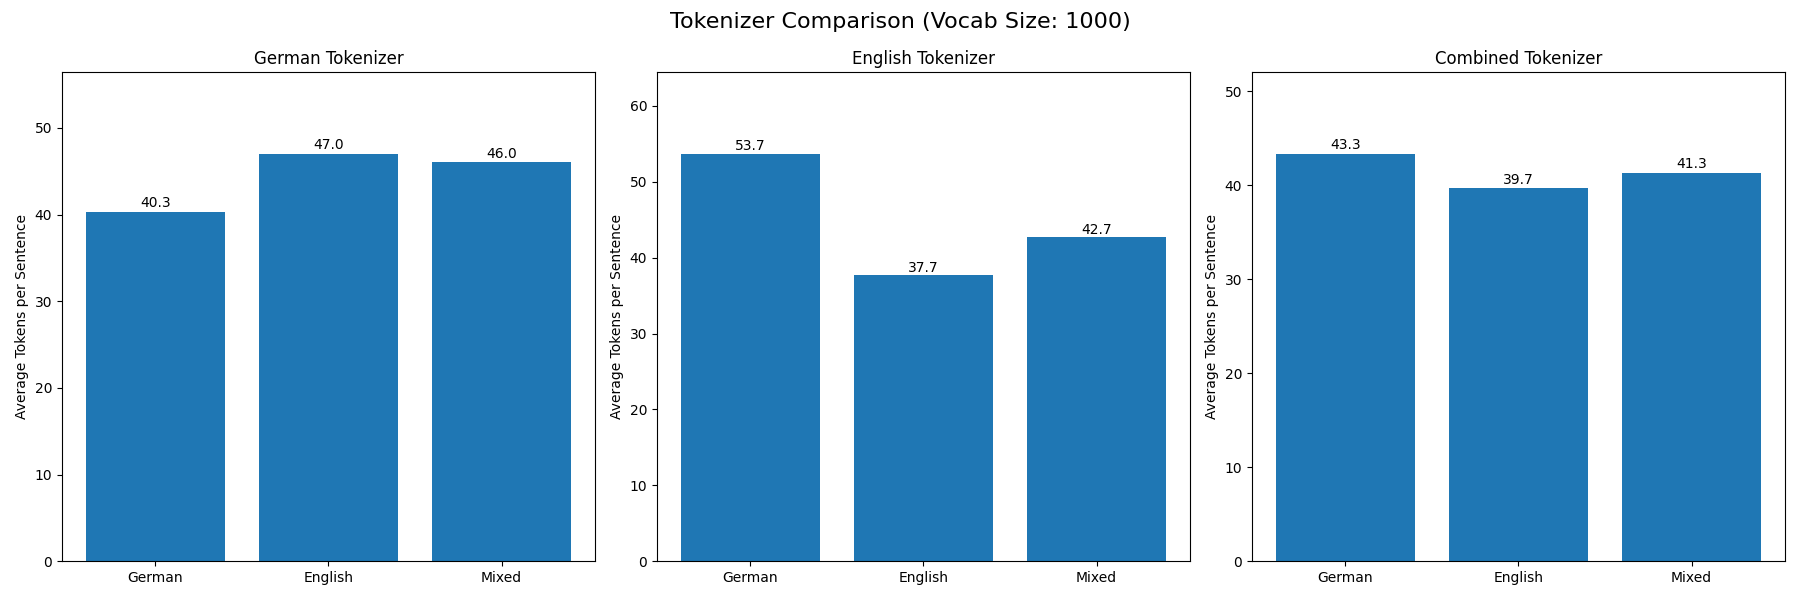
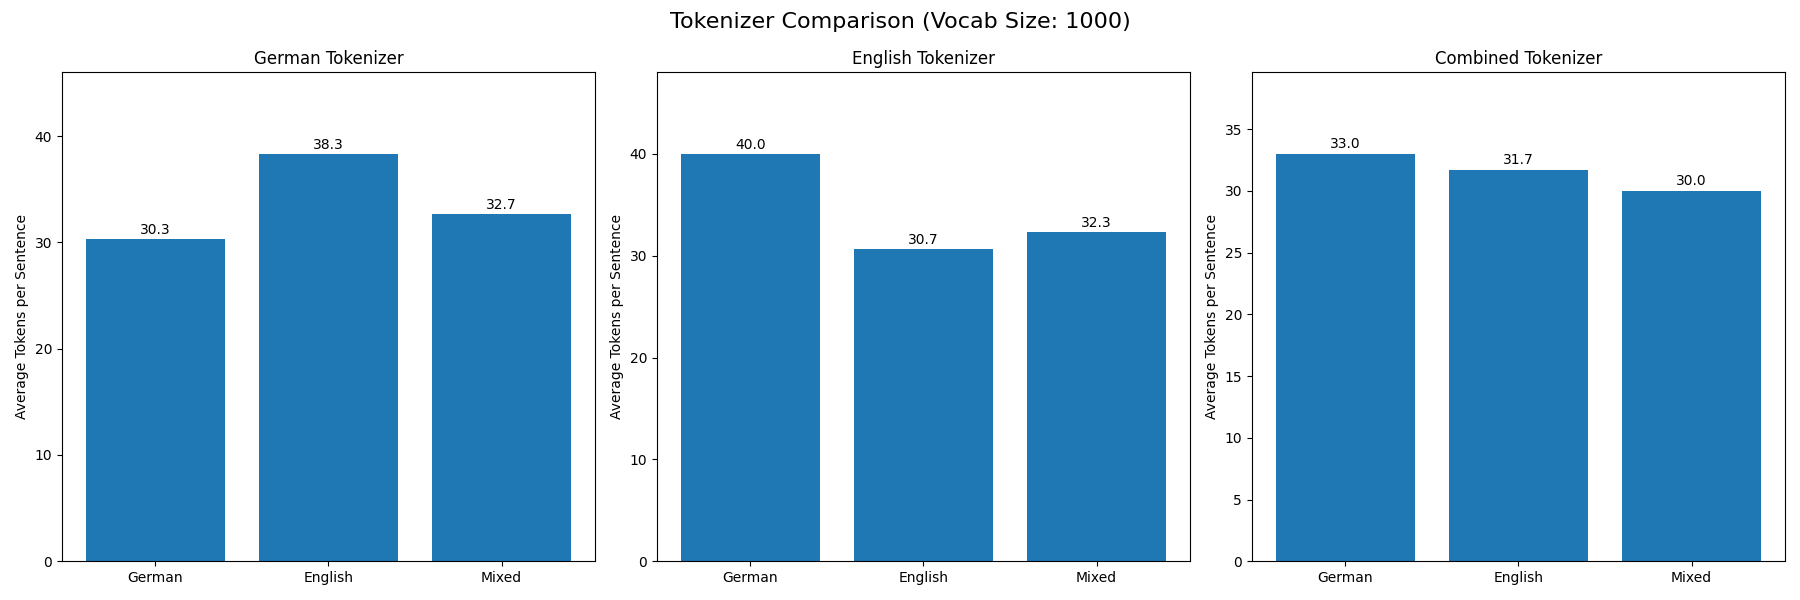
fix tokenisation

diff --git a/bpe_tokenizer/analyse_tokenizer.py b/bpe_tokenizer/analyse_tokenizer.py
@@ -1,5 +1,5 @@
 from bpe_tokenizer import BPETokenizer
-from config import TEST_VOCAB_SIZE, TOKENIZERS_DIR, CHARTS_DIR, test_sets
+from config import VOCAB_SIZE, TOKENIZERS_DIR, CHARTS_DIR, test_sets
 import matplotlib.pyplot as plt
 import os
 
@@ -55,7 +55,7 @@ def create_tokenizer_charts(german_metrics, english_metrics, combined_metrics, t
     
     # Set up figure with 3 subplots
     fig, axs = plt.subplots(1, 3, figsize=(18, 6))
-    fig.suptitle(f'Tokenizer Comparison (Vocab Size: {TEST_VOCAB_SIZE})', fontsize=16)
+    fig.suptitle(f'Tokenizer Comparison (Vocab Size: {VOCAB_SIZE})', fontsize=16)
     
     # Create a chart for each tokenizer
     for idx, (tokenizer_name, metrics) in enumerate(tokenizers.items()):
@@ -78,13 +78,13 @@ def create_tokenizer_charts(german_metrics, english_metrics, combined_metrics, t
     
     plt.tight_layout()
     os.makedirs(CHARTS_DIR, exist_ok=True)
-    plt.savefig(f"{CHARTS_DIR}tokenizer_avg_comparison_vocab{TEST_VOCAB_SIZE}.png")
+    plt.savefig(f"{CHARTS_DIR}tokenizer_avg_comparison_vocab{VOCAB_SIZE}.png")
     plt.show()
 
 def main():
-    de_tokenizer = BPETokenizer.load(f"{TOKENIZERS_DIR}german_vocab{TEST_VOCAB_SIZE}_tokenizer.pkl")
-    en_tokenizer = BPETokenizer.load(f"{TOKENIZERS_DIR}english_vocab{TEST_VOCAB_SIZE}_tokenizer.pkl")
-    combined_tokenizer = BPETokenizer.load(f"{TOKENIZERS_DIR}combined_vocab{TEST_VOCAB_SIZE}_tokenizer.pkl")
+    de_tokenizer = BPETokenizer.load(f"{TOKENIZERS_DIR}german_vocab{VOCAB_SIZE}_tokenizer.pkl")
+    en_tokenizer = BPETokenizer.load(f"{TOKENIZERS_DIR}english_vocab{VOCAB_SIZE}_tokenizer.pkl")
+    combined_tokenizer = BPETokenizer.load(f"{TOKENIZERS_DIR}combined_vocab{VOCAB_SIZE}_tokenizer.pkl")
     
     # Test each tokenizer on all test sets
     tokenizers = {

diff --git a/bpe_tokenizer/config.py b/bpe_tokenizer/config.py
@@ -1,24 +1,23 @@
 # Configuration parameters for BPE tokenizer
 
 # Vocabulary size for tokenizers
-TRAIN_VOCAB_SIZE = 1500 # Used when training tokenizers
-TEST_VOCAB_SIZE = 1500   # Used when loading tokenizers for testing
+VOCAB_SIZE = 1500
 
 test_sets = {
     'German': [
-        "Die Künstliche Intelligenz hat bedeutende Fortschritte in der Sprachverarbeitung gemacht.",
         "Die Programmierung von Sprachmodellen erfordert ein Verständnis von Tokenisierungsalgorithmen.",
-        "BPE-Tokenisierung funktioniert durch iteratives Zusammenführen häufiger Zeichenpaare."
+        "Das Wetter ist heute wirklich schön.",
+        "Kannst du mir bitte den Weg zum nächsten Bahnhof zeigen?"
     ],
     'English': [
-        "Artificial Intelligence has made significant progress in language processing.",
         "Programming natural language models requires understanding of tokenization algorithms.",
-        "BPE tokenization works by merging common character pairs iteratively."
+        "The weather is really nice today.",
+        "Could you please show me the way to the nearest train station?"
     ],
     'Mixed': [
-        "Die Artificial Intelligence hat significant progress in der language processing gemacht.",
         "Programming von Sprachmodellen erfordert ein understanding von tokenization algorithms.",
-        "BPE-Tokenisierung works by merging häufiger character pairs iteratively."
+        "Das weather is really schön today.",
+        "Could you bitte show me den Weg zum nearest Bahnhof?"
     ]
 }
 

diff --git a/bpe_tokenizer/train_tokenizer.py b/bpe_tokenizer/train_tokenizer.py
@@ -1,5 +1,5 @@
 from bpe_tokenizer import BPETokenizer
-from config import TRAIN_VOCAB_SIZE, GERMAN_CORPUS_PATH, ENGLISH_CORPUS_PATH, TOKENIZERS_DIR
+from config import VOCAB_SIZE, GERMAN_CORPUS_PATH, ENGLISH_CORPUS_PATH, TOKENIZERS_DIR
 import os
 
 def load_text_data(file_path):
@@ -31,9 +31,9 @@ def train_tokenizer(dataset_paths, vocab_size, name):
     return tokenizer
 
 def main():
-    train_tokenizer([GERMAN_CORPUS_PATH], TRAIN_VOCAB_SIZE, "german")
-    train_tokenizer([ENGLISH_CORPUS_PATH], TRAIN_VOCAB_SIZE, "english")
-    train_tokenizer([GERMAN_CORPUS_PATH, ENGLISH_CORPUS_PATH], TRAIN_VOCAB_SIZE, "combined")
+    train_tokenizer([GERMAN_CORPUS_PATH], VOCAB_SIZE, "german")
+    train_tokenizer([ENGLISH_CORPUS_PATH], VOCAB_SIZE, "english")
+    train_tokenizer([GERMAN_CORPUS_PATH, ENGLISH_CORPUS_PATH], VOCAB_SIZE, "combined")
         
 if __name__ == "__main__":
     main()
